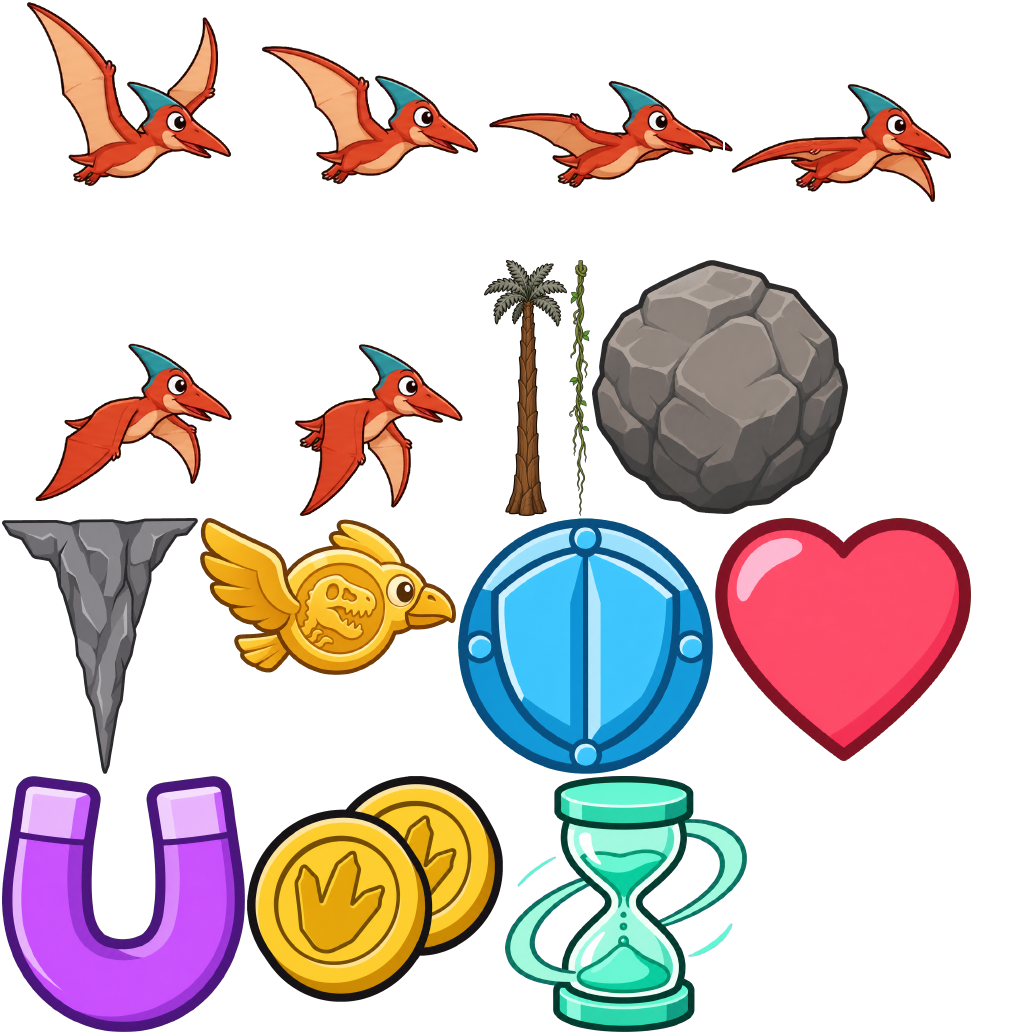
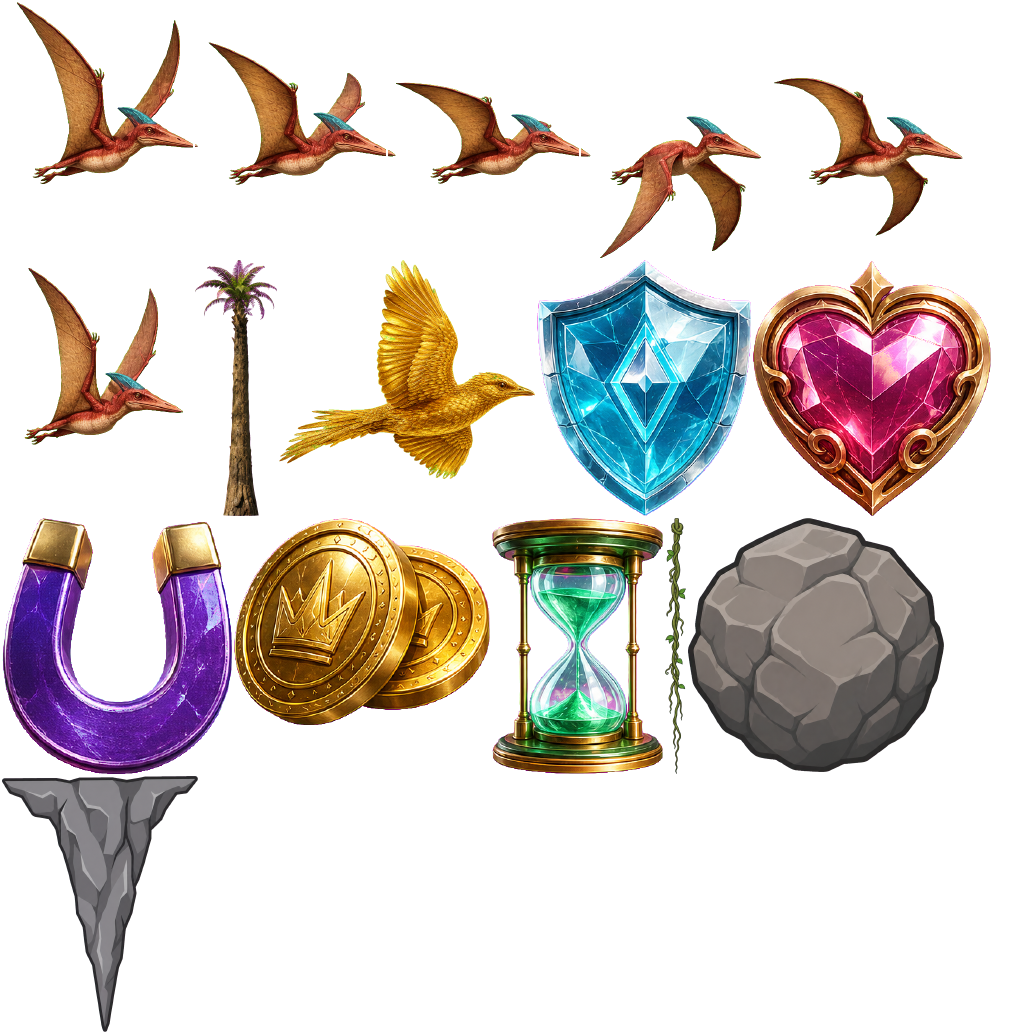
feat(art): atlas de entidades realista por tema (classic/volcano/glacier)

diff --git a/tests/render/atlas.test.ts b/tests/render/atlas.test.ts
@@ -40,6 +40,17 @@ describe('atlas de entidades (arte real)', () => {
     }
   });
 
+  it('COMPLETUDE POR VARIANTE: todo id sprite do manifesto tem frame em CADA atlas de tema', () => {
+    for (const v of ATLAS_VARIANTS) {
+      const { json } = renderAtlas(v.sources);
+      for (const [id, r] of Object.entries(ASSET_MANIFEST)) {
+        if (r.kind === 'sprite') {
+          expect(json.frames[id], `${v.key}: manifesto sprite sem frame: ${id}`).toBeDefined();
+        }
+      }
+    }
+  });
+
   it('o dino tem 6 frames de flap + alias, cada um com geometria válida', () => {
     const { json } = renderAtlas();
     for (let i = 0; i < 6; i++) expect(json.frames[`dino.default.${i}`], `frame ${i}`).toBeDefined();
@@ -58,13 +69,18 @@ describe('atlas de entidades (arte real)', () => {
     }
   });
 
-  it('os arquivos commitados existem e o PNG bate com o gerado', () => {
-    const png = readFileSync(path.join(root, 'public/atlas/entities.png'));
-    expect(png.equals(renderAtlas().png)).toBe(true);
+  it('os 3 atlas de tema commitados existem e batem byte-a-byte com o gerado (entities = classic)', () => {
+    for (const v of ATLAS_VARIANTS) {
+      const png = readFileSync(path.join(root, `public/atlas/${v.key}.png`));
+      expect(png.equals(renderAtlas(v.sources).png), v.key).toBe(true);
+    }
   });
 
-  it('ATLAS_VARIANTS inclui o atlas default entities', () => {
-    expect(ATLAS_VARIANTS.some((v) => v.key === 'entities')).toBe(true);
+  it('ATLAS_VARIANTS inclui o atlas default entities e os temas volcano/glacier', () => {
+    const keys = ATLAS_VARIANTS.map((v) => v.key);
+    expect(keys).toContain('entities');
+    expect(keys).toContain('entities.volcano');
+    expect(keys).toContain('entities.glacier');
   });
 
   it('renderAtlas aceita uma lista de fontes (multi-atlas)', () => {